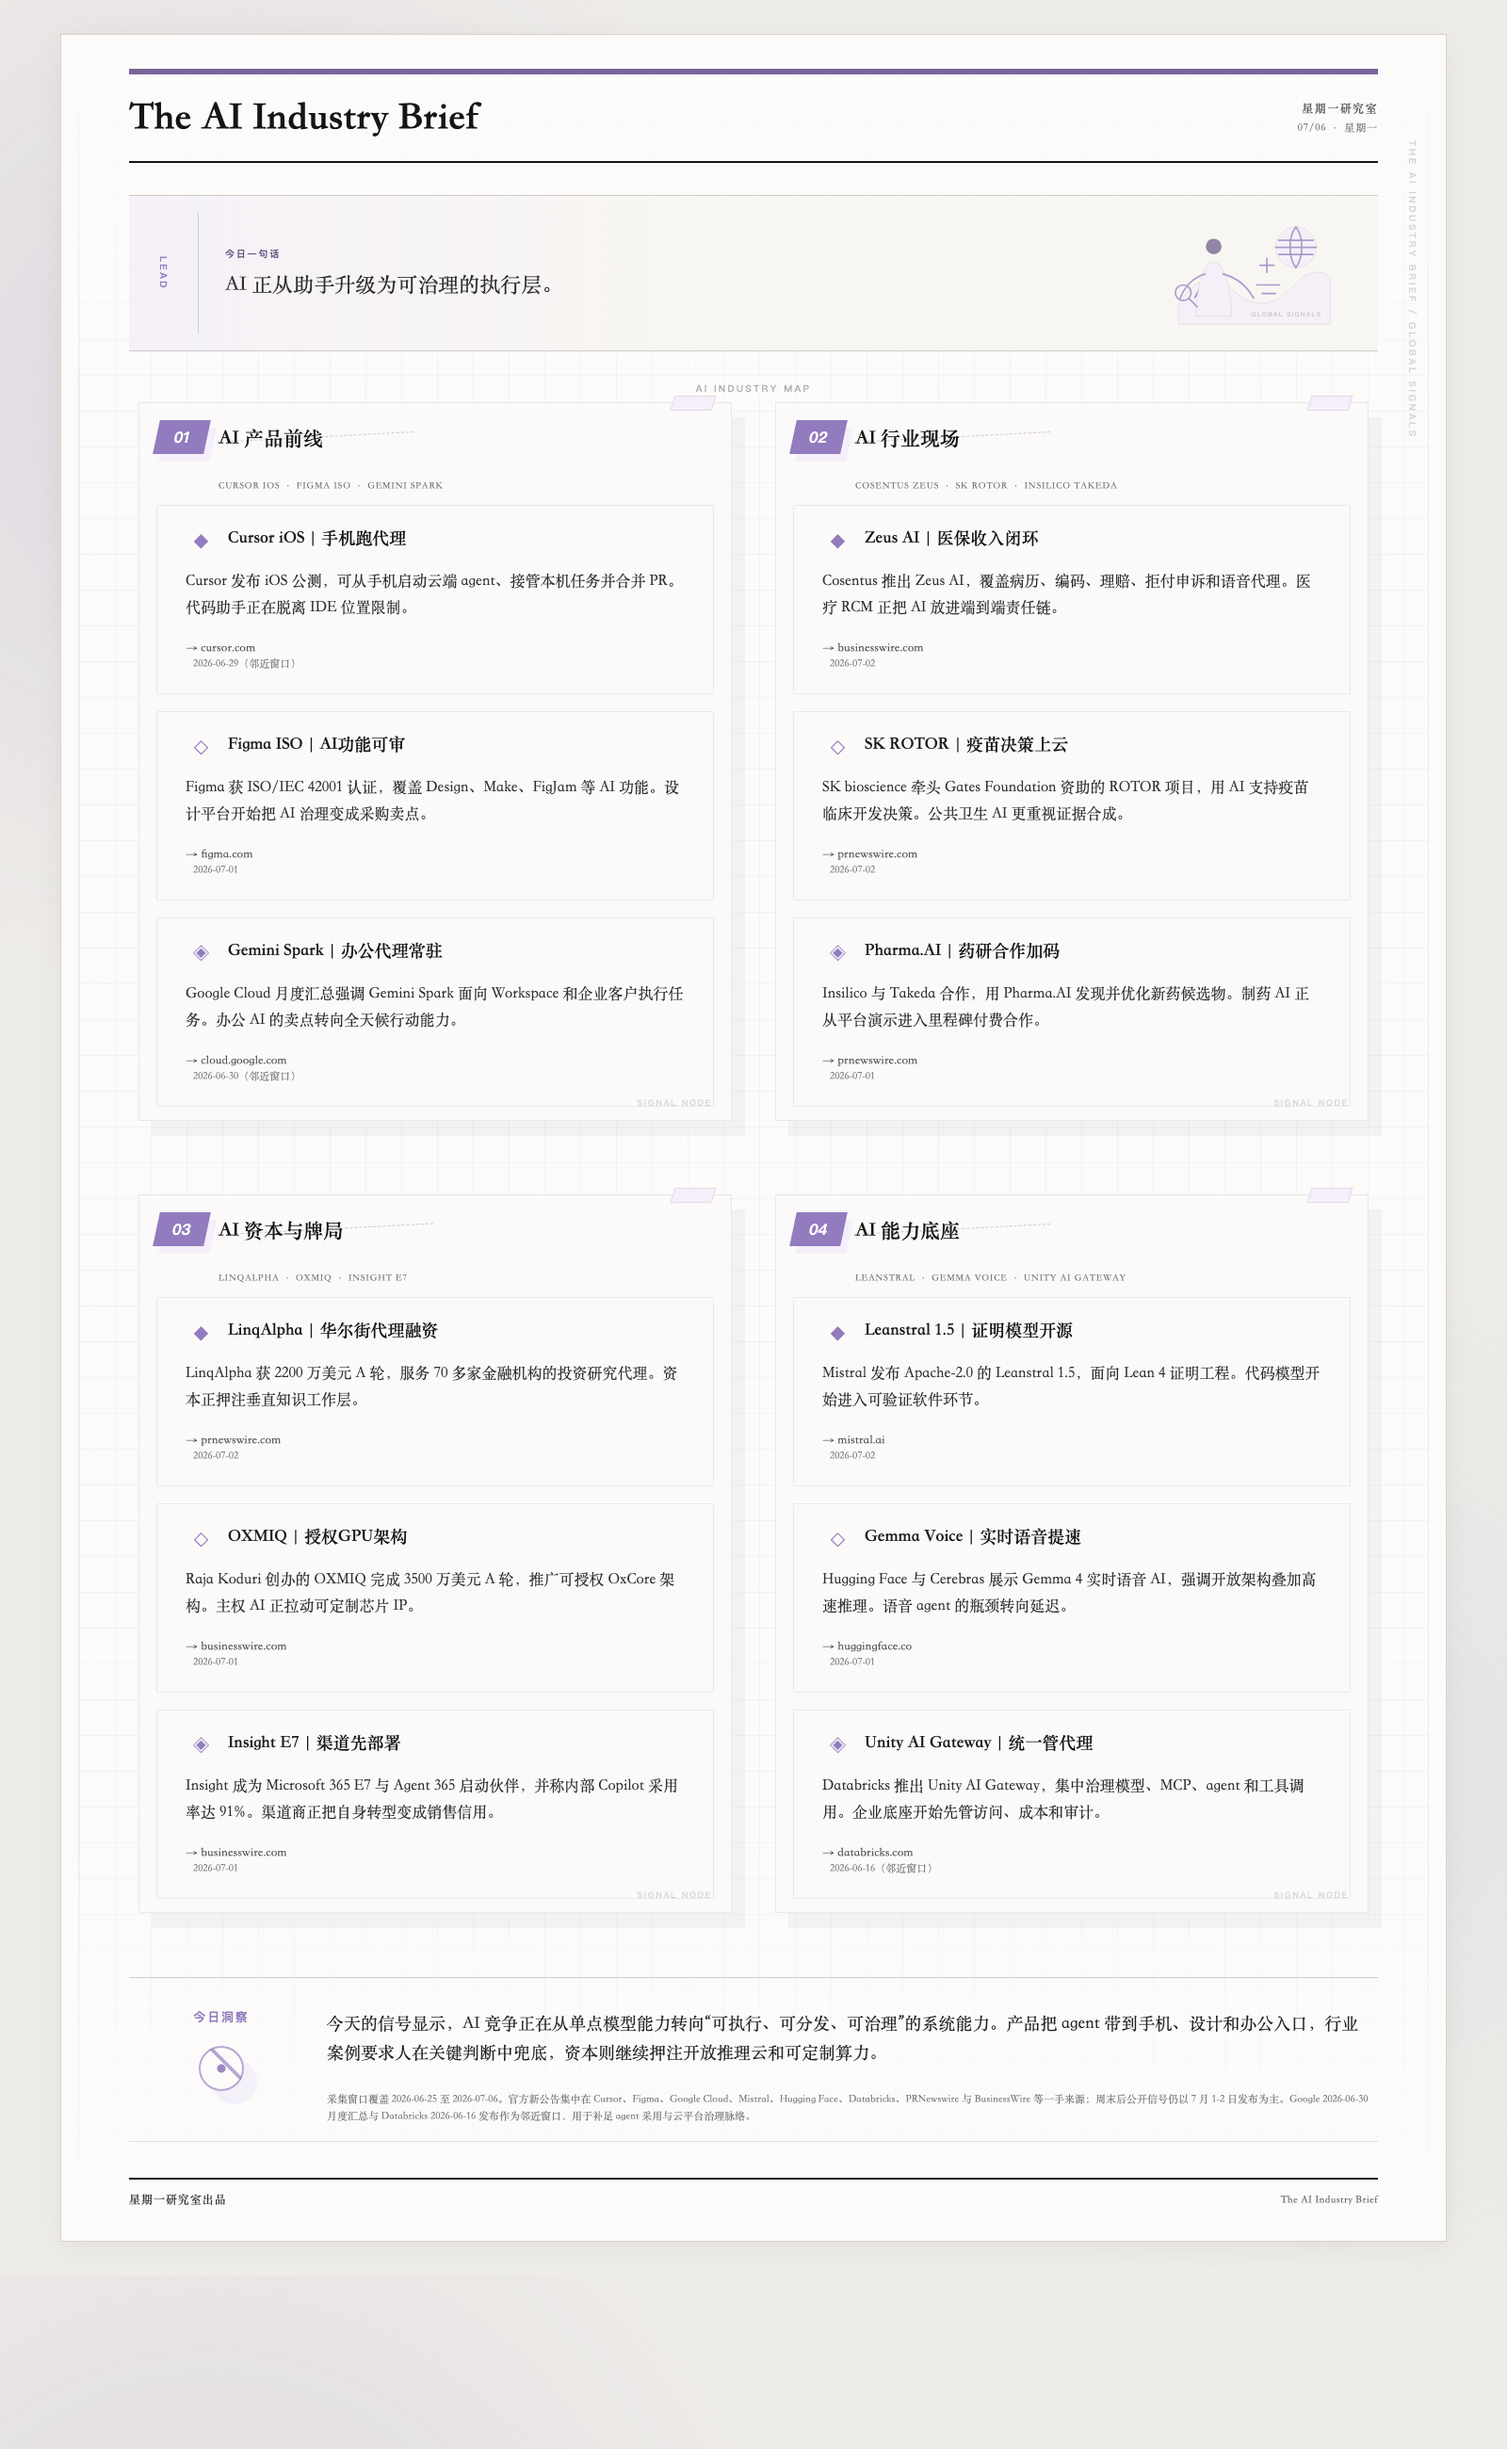
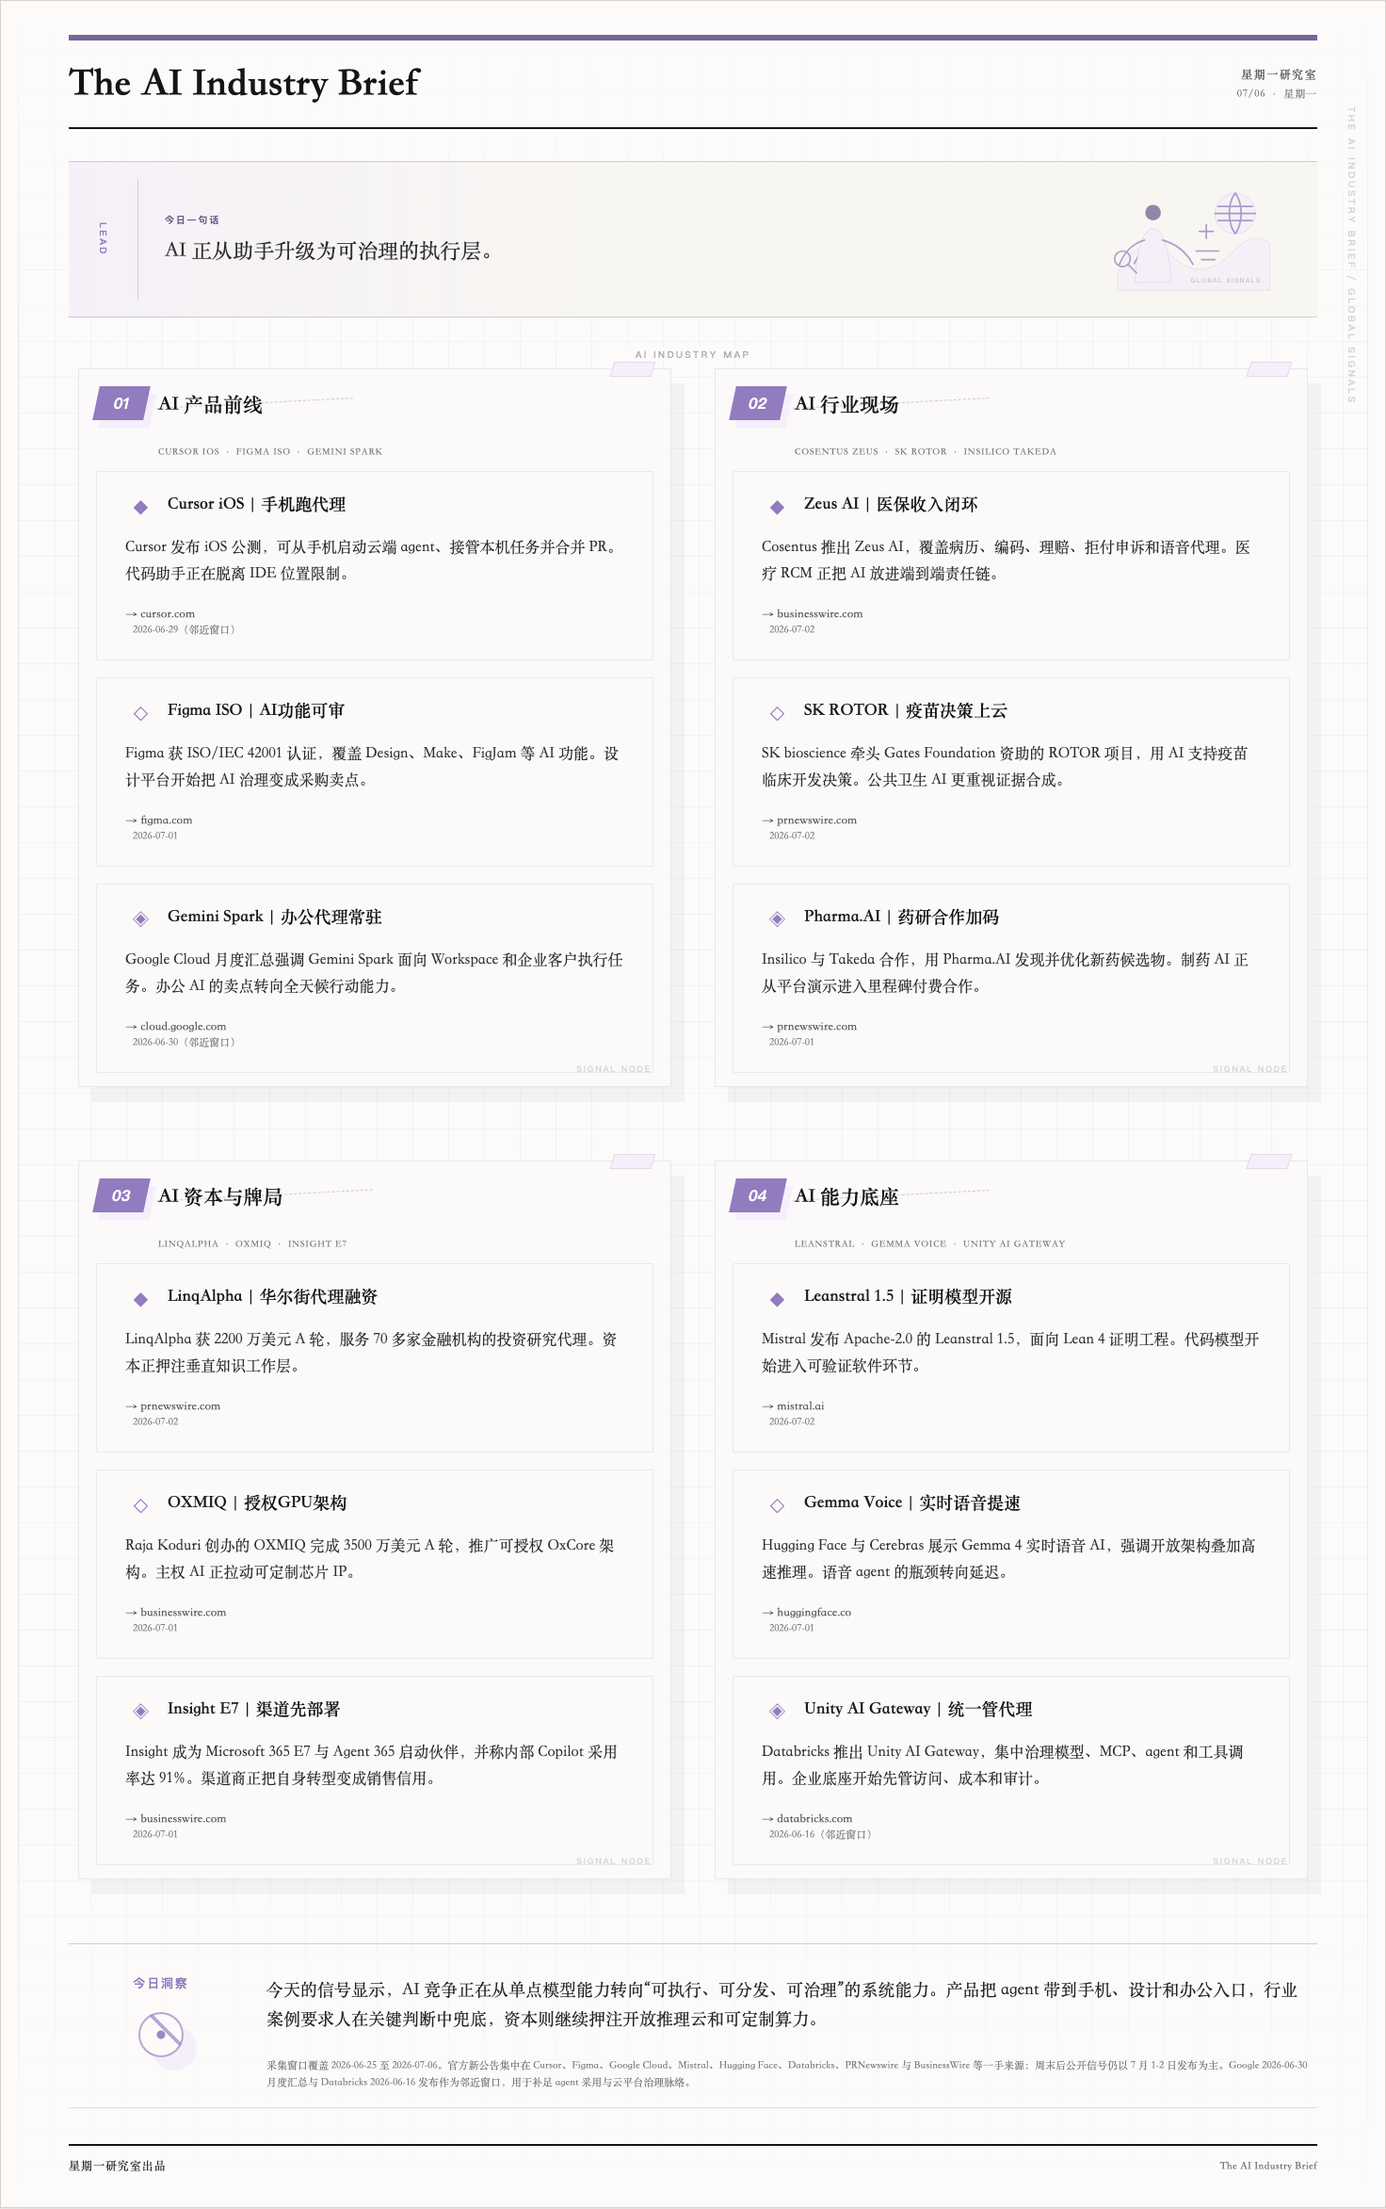
Fix 2026-07-06 brief image capture

diff --git a/workers/feishu-brief-push/scripts/post-publish-send.js b/workers/feishu-brief-push/scripts/post-publish-send.js
@@ -17,7 +17,7 @@ const DEFAULT_WAIT_ATTEMPTS = 18;
 const DEFAULT_WAIT_INTERVAL_MS = 10000;
 const DEFAULT_REQUEST_TIMEOUT_MS = 120000;
 const DEFAULT_SCREENSHOT_WIDTH = 1600;
-const DEFAULT_SCREENSHOT_HEIGHT = 2600;
+const DEFAULT_SCREENSHOT_HEIGHT = 4200;
 const GITHUB_WORKFLOW_FILE = "feishu-brief-push.yml";
 const GITHUB_SECRET_NAME = "WORKER_MANUAL_TRIGGER_TOKEN";
 
